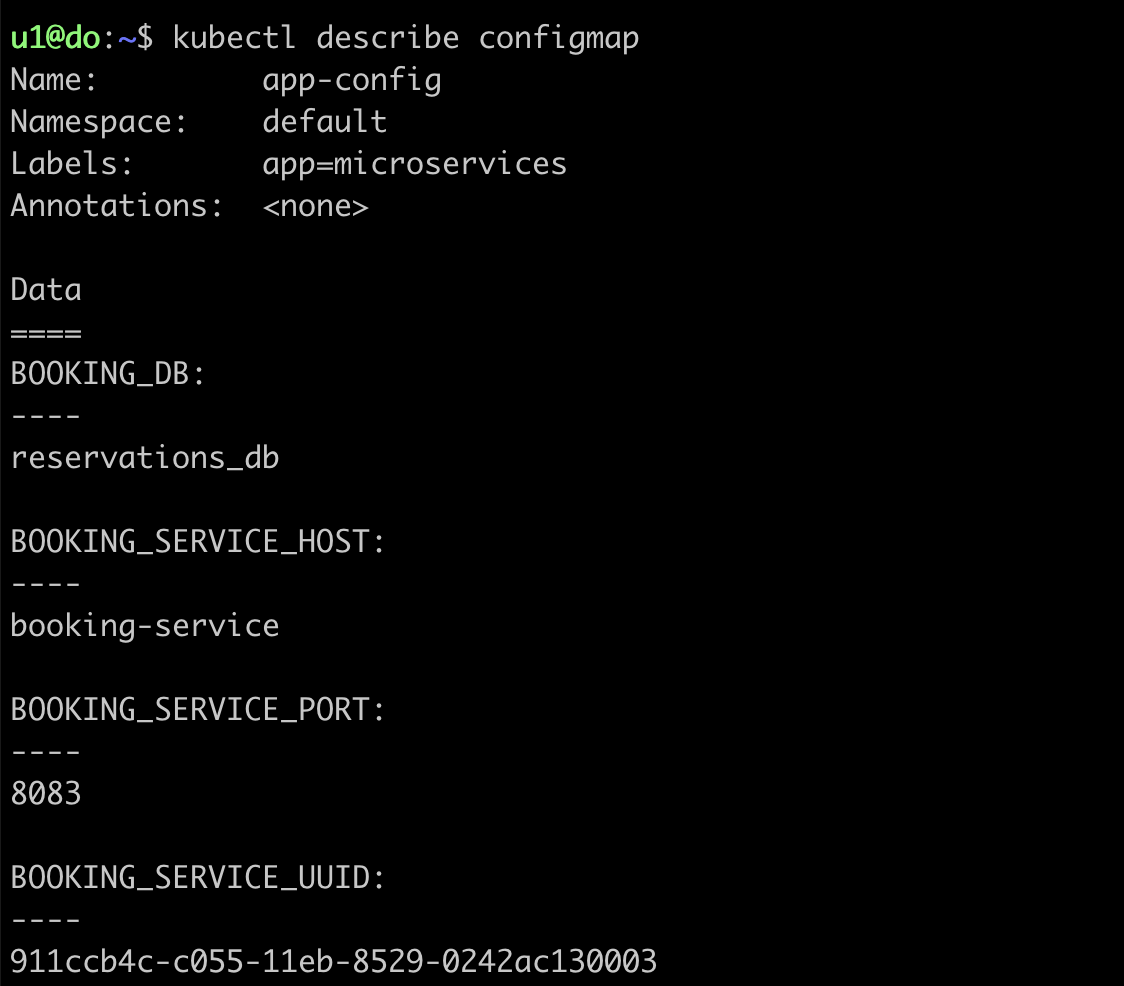
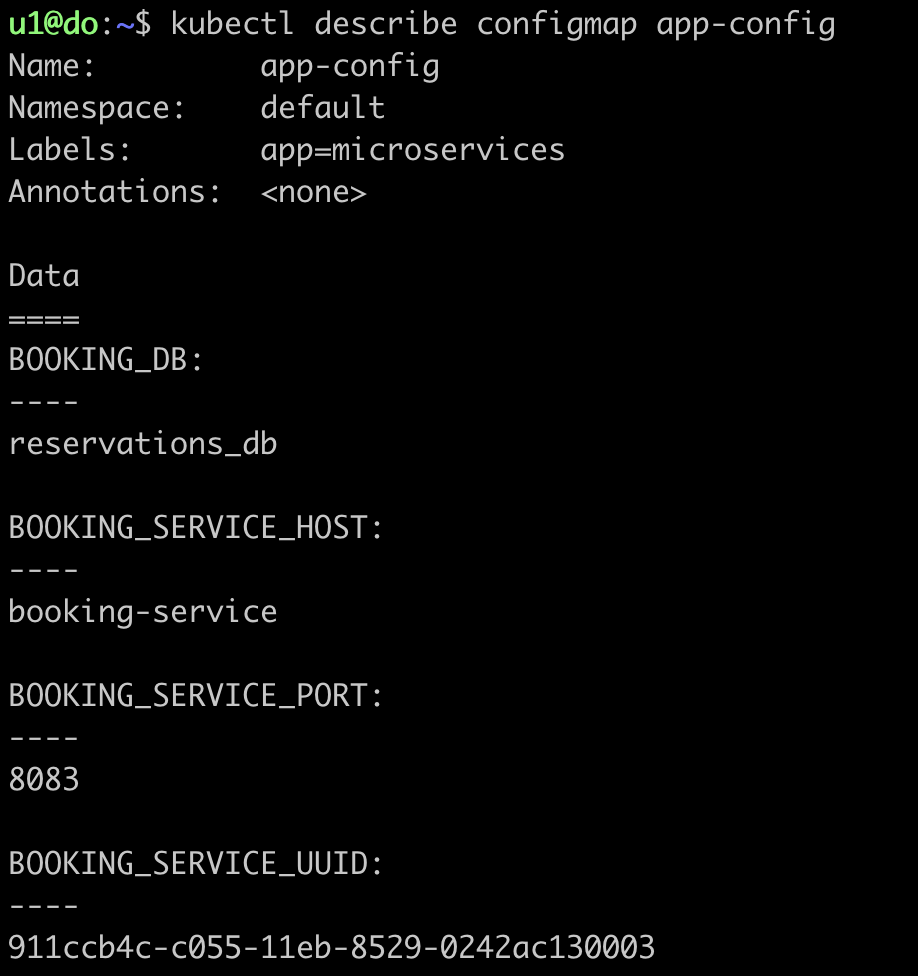
conf / sec

diff --git a/src/REPORT.MD b/src/REPORT.MD
@@ -541,12 +541,30 @@ scp -P [порт] путь/к файлам [логин]@localhost:путь/к_п
 
 Применим конфиги: 
 
+`kubectl apply -f ./путь_к_файлу`
+
 ![P2.5](./assets/P2.5.png)
 
 посмотрим, что создалось:
+
+`kubectl get configmap app-config`
+`kubectl get secret app-secrets`
 
 ![P2.6](./assets/P2.6.png)
 
 Посмотрим на содержание:
 
+`kubectl describe configmap app-config`
+
+`kubectl describe secret app-secrets`
+
+>Если запросить просто, к примеру `kubectl describe configmap`, мы получим configmap системы по умолчанию, автоматически созданный kubernetes, а не тот, что мы создали.
+
 ![P2.7](./assets/P2.7.png)
+![P2.8](./assets/P2.8.png)
+
+>Как мы видим, команда `kubectl describe secret app-secrets` выводит только метаданные. Чтобы получить само содержание, необходимо получить сам `.yaml`
+
+`kubectl get secret app-secrets -o yaml`
+
+![2.9](./assets/P2.9.png)
